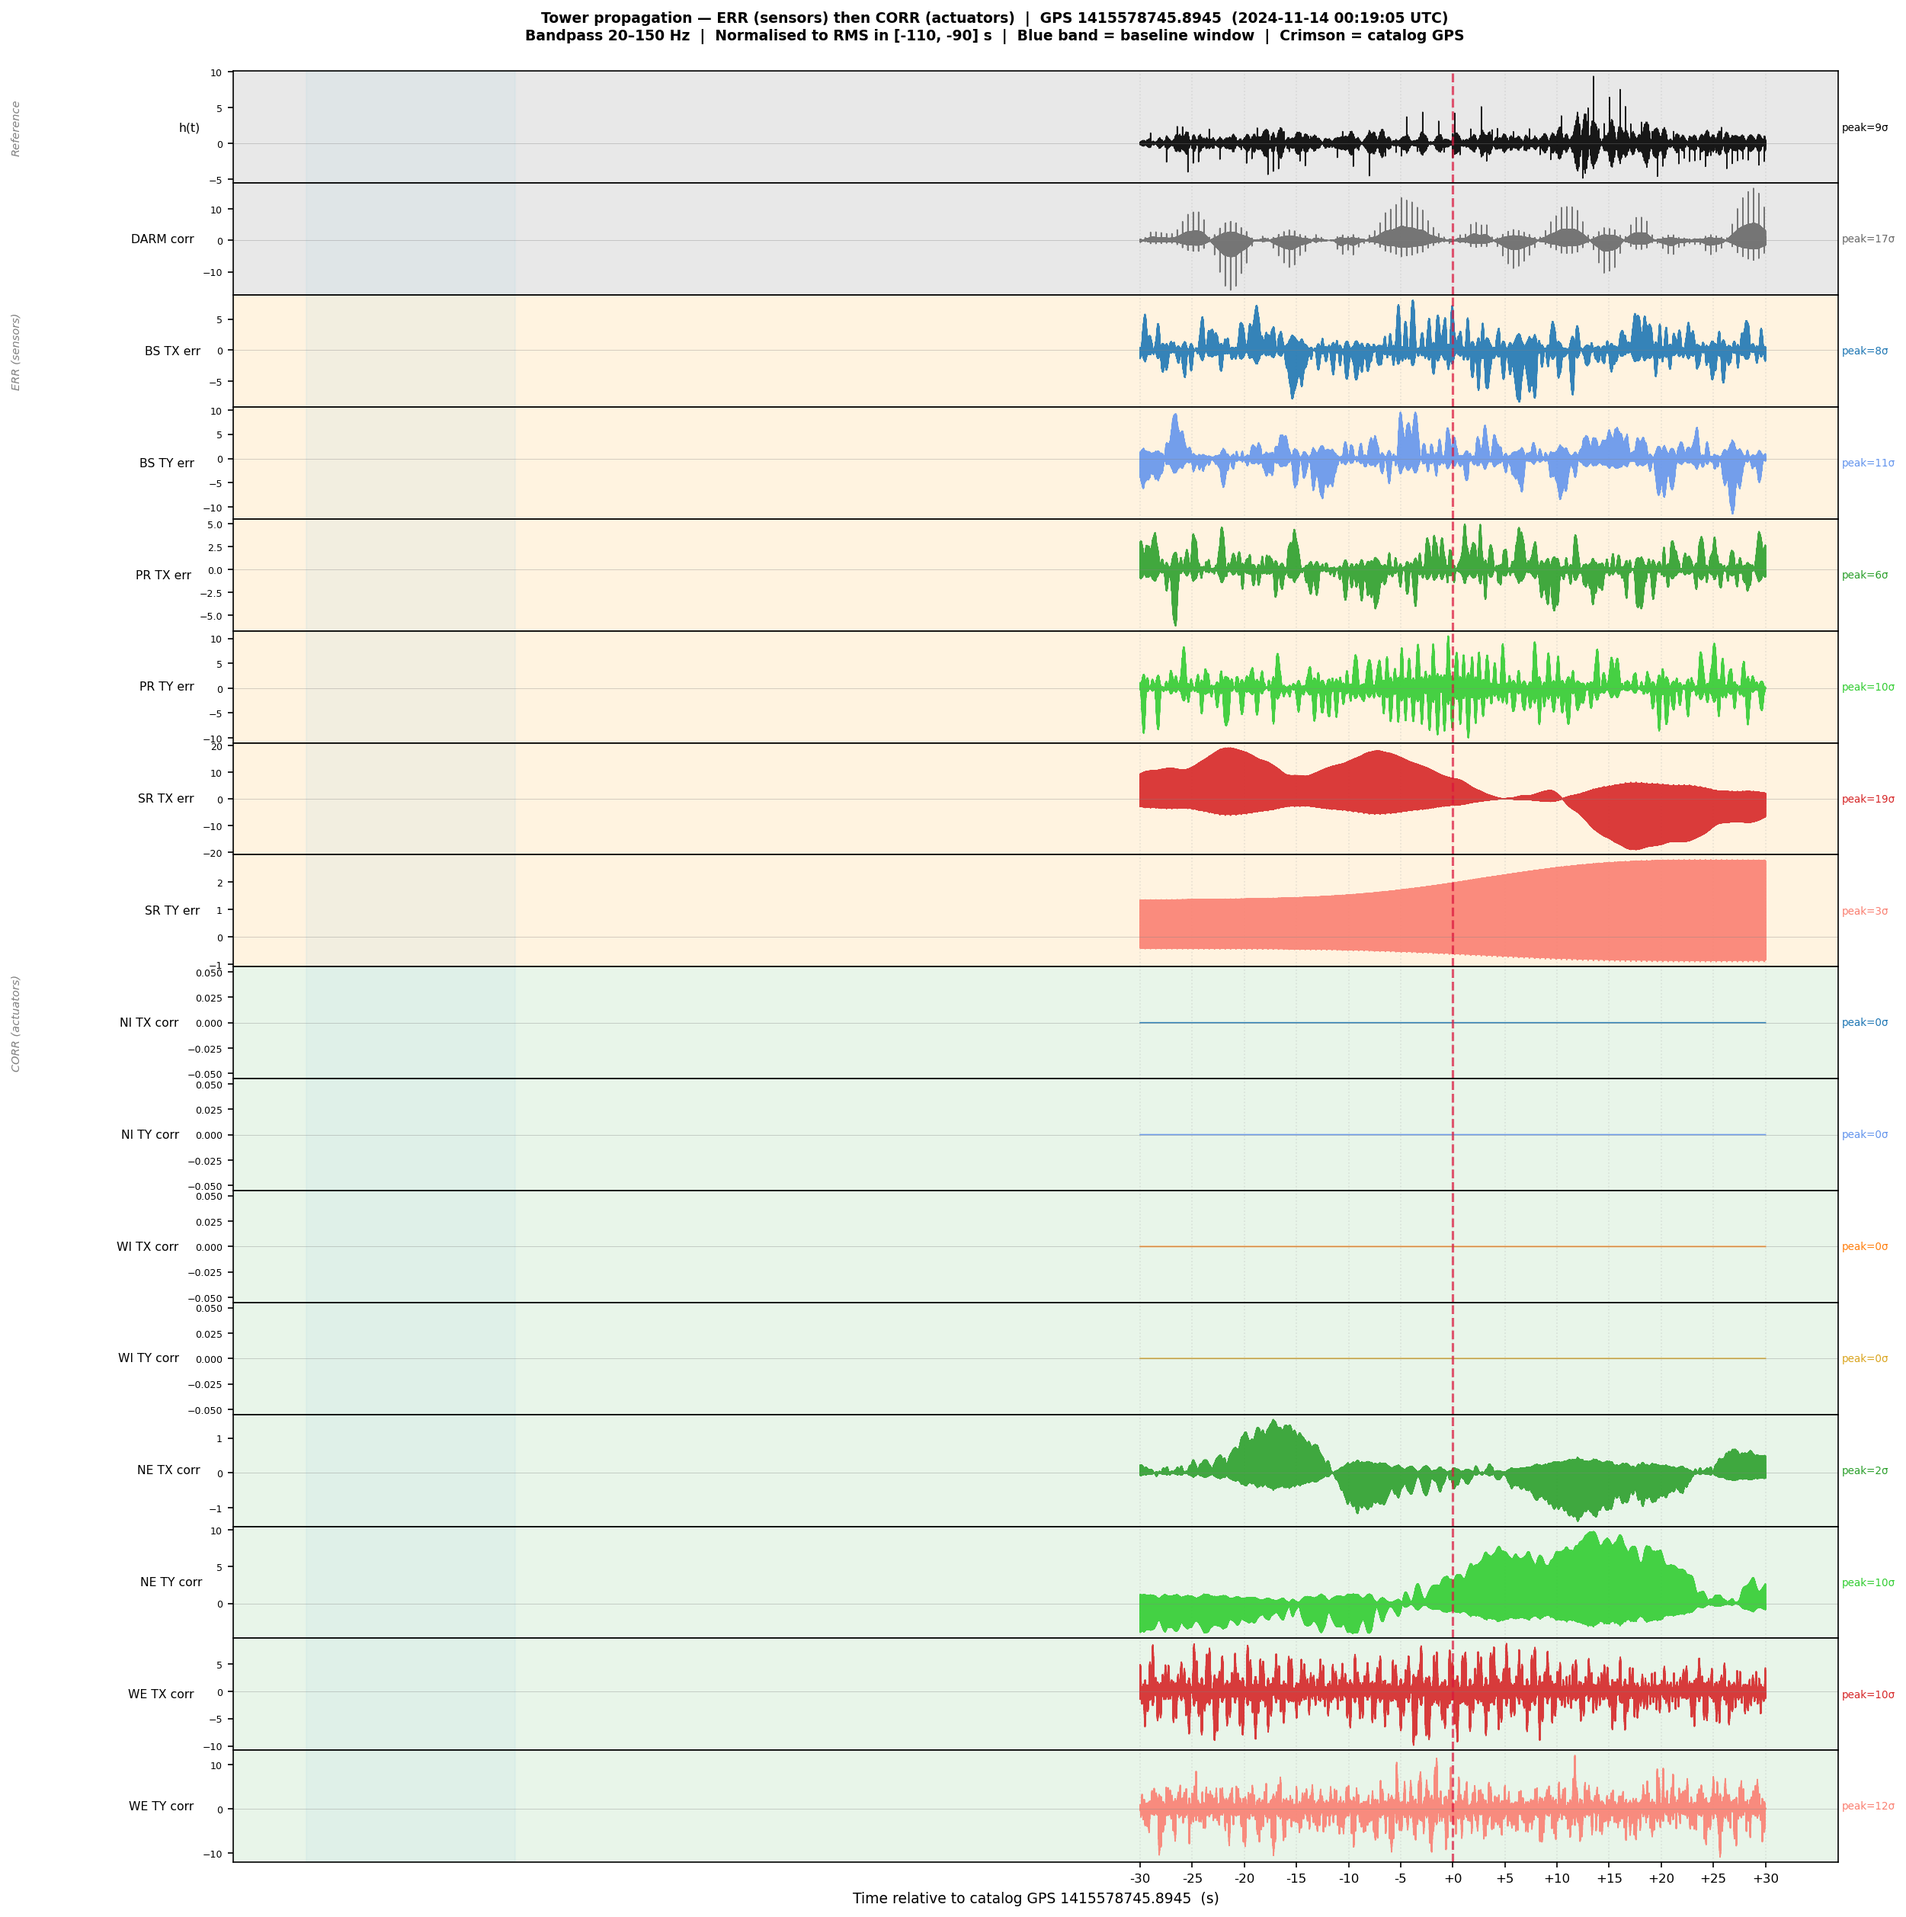
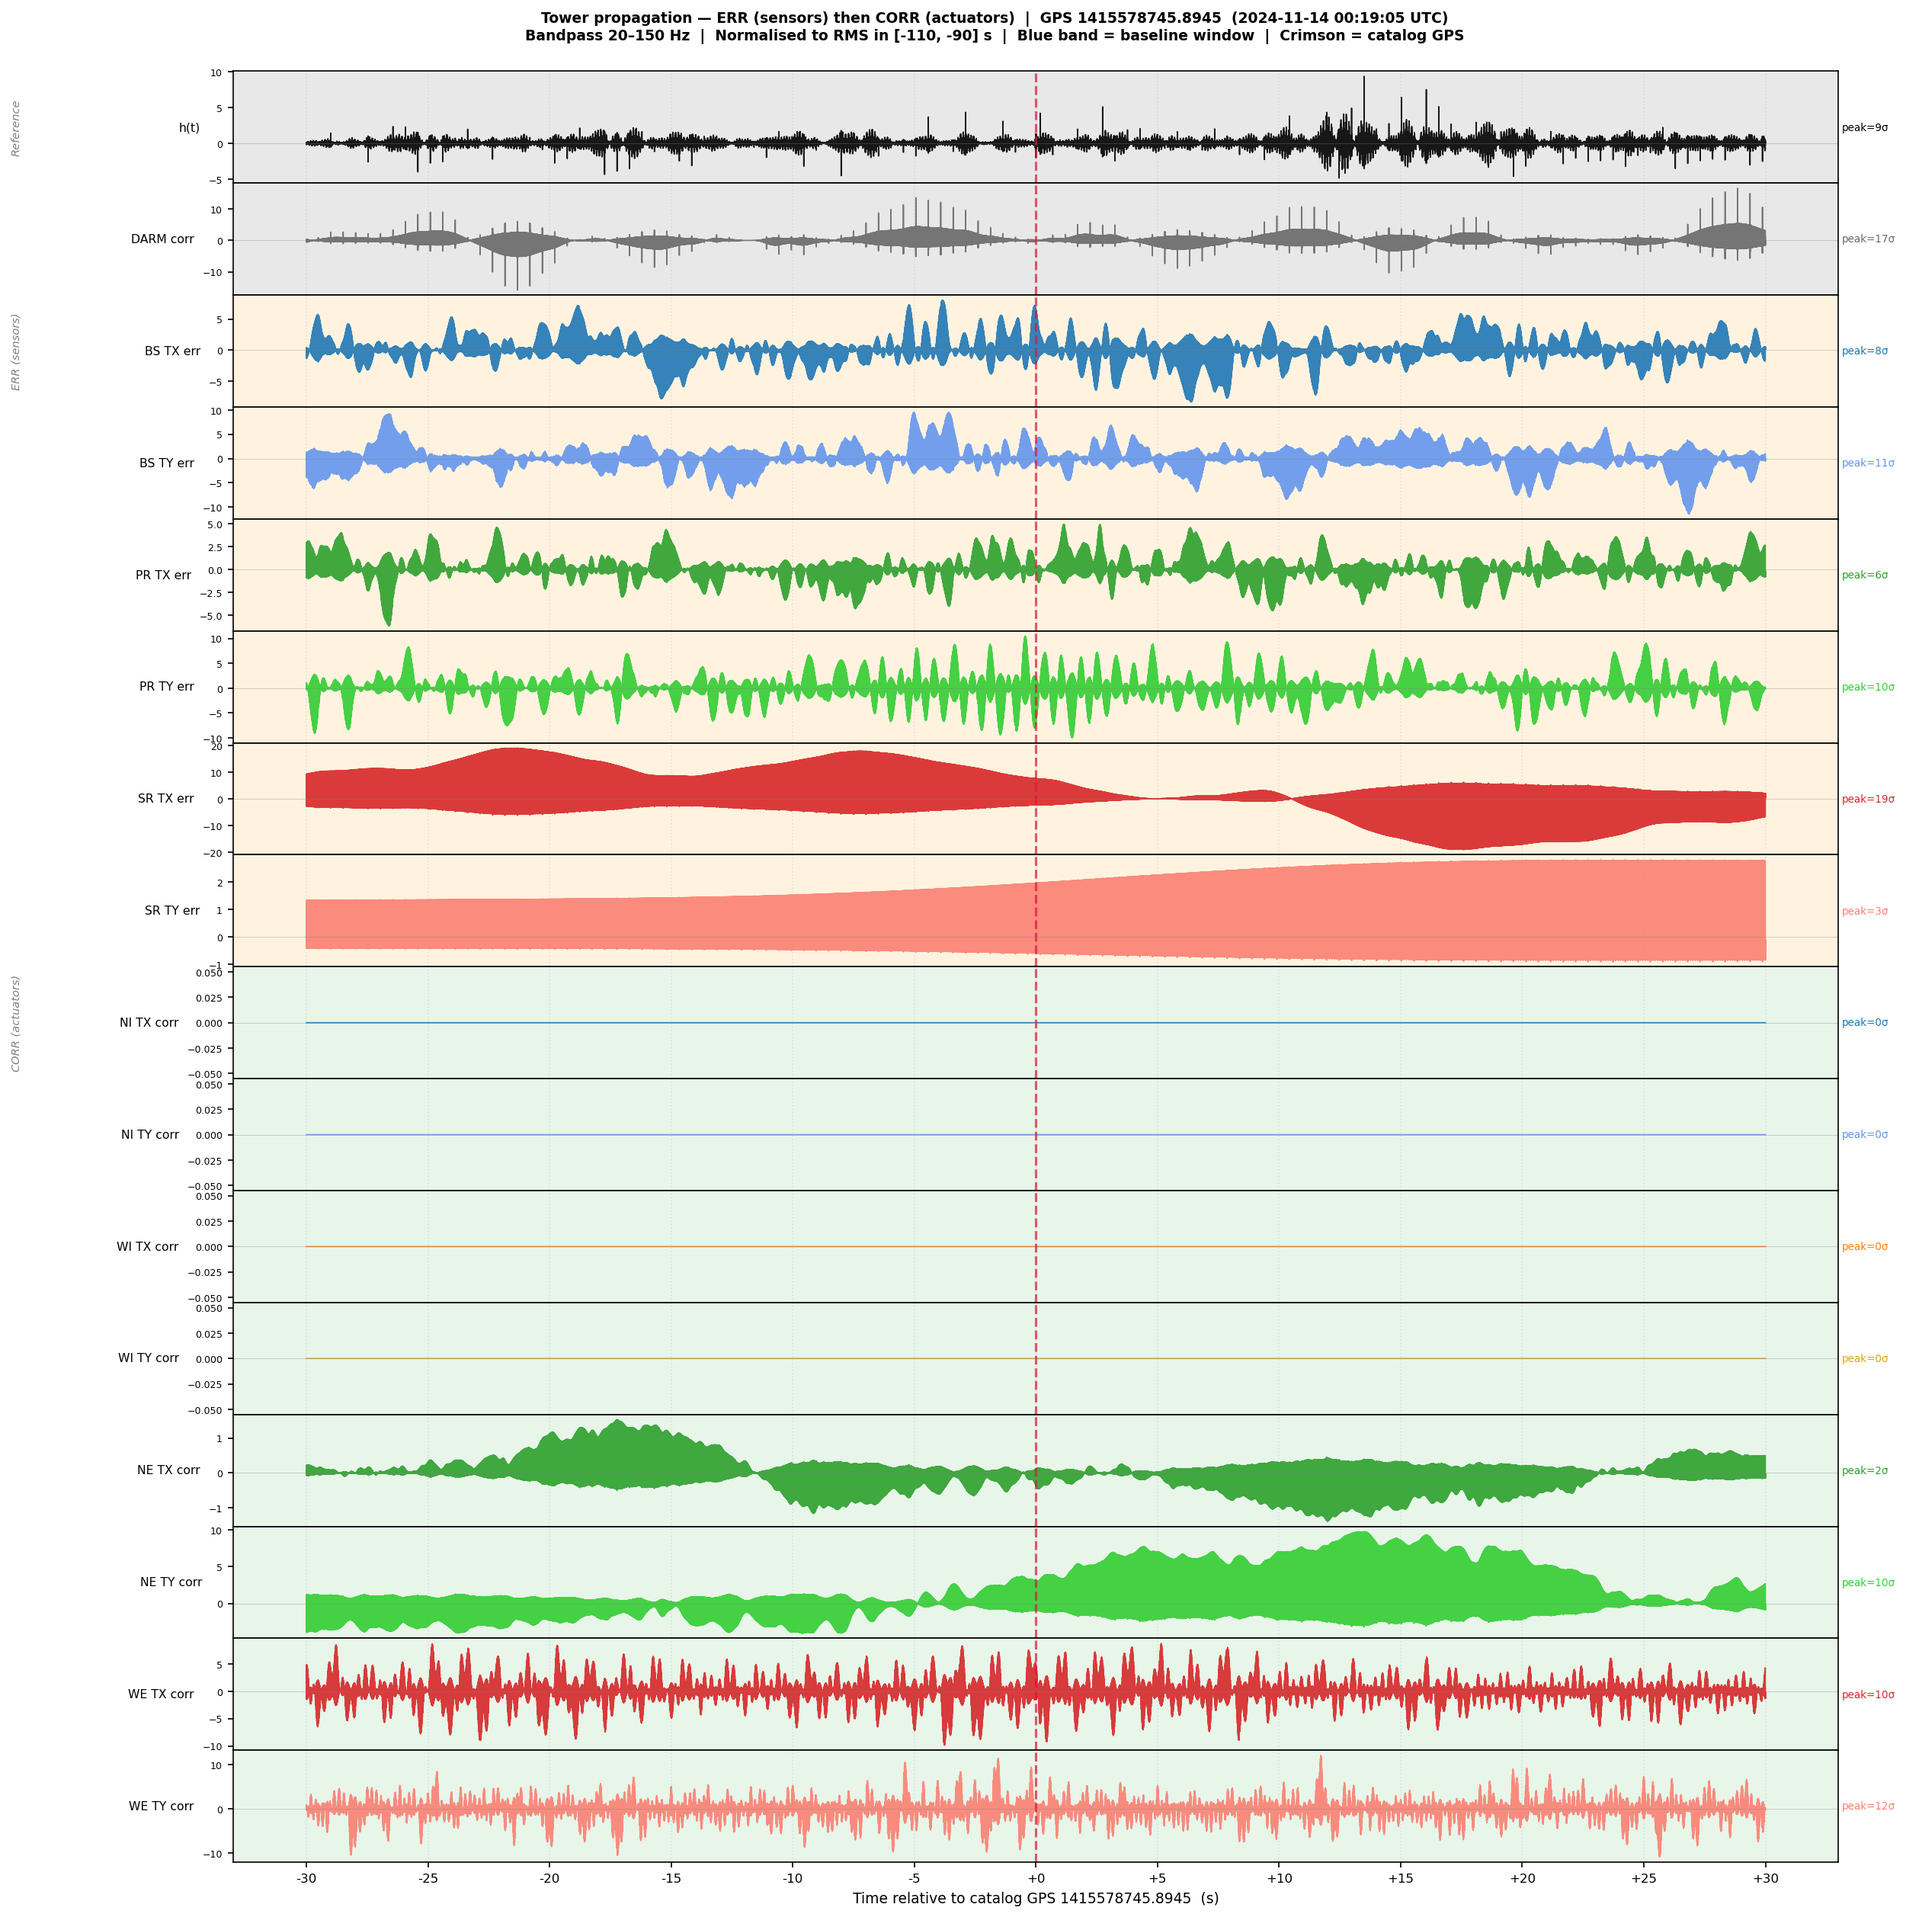
fix: clip axvspan to display window to avoid x-axis range blowout
axvspan(BASELINE_T0=-110, BASELINE_T1=-90) was forcing matplotlib to
extend the x-axis to -110 s in the zoomed panels (15 s, 6 s), cramping
all waveforms into the right edge. Now only drawn when the baseline
window overlaps the displayed window.

Changed region(s): [[0.1559, 0.062, 0.9356, 0.5272], [0.1559, 0.7443, 0.9356, 0.9614]]

diff --git a/scripts/plot_tower_propagation_wide.py b/scripts/plot_tower_propagation_wide.py
@@ -105,8 +105,11 @@ def make_stacked_plot(win_lo, win_hi, suffix, xtick_step):
         data_win = norm[mask]
         ax.plot(t_arr[mask], data_win, color=color, lw=0.8, alpha=0.9)
         ax.axvline(0, color="crimson", lw=1.5, ls="--", alpha=0.7)
-        # Shade the baseline region used for normalisation
-        ax.axvspan(BASELINE_T0, BASELINE_T1, color="lightblue", alpha=0.15, zorder=0)
+        # Shade the baseline region only if it overlaps the current window
+        bl_lo = max(BASELINE_T0, win_lo)
+        bl_hi = min(BASELINE_T1, win_hi)
+        if bl_lo < bl_hi:
+            ax.axvspan(bl_lo, bl_hi, color="lightblue", alpha=0.15, zorder=0)
         ax.set_ylabel(label, fontsize=7.5, rotation=0, ha="right",
                       va="center", labelpad=5)
         ax.tick_params(axis="y", labelsize=6)
